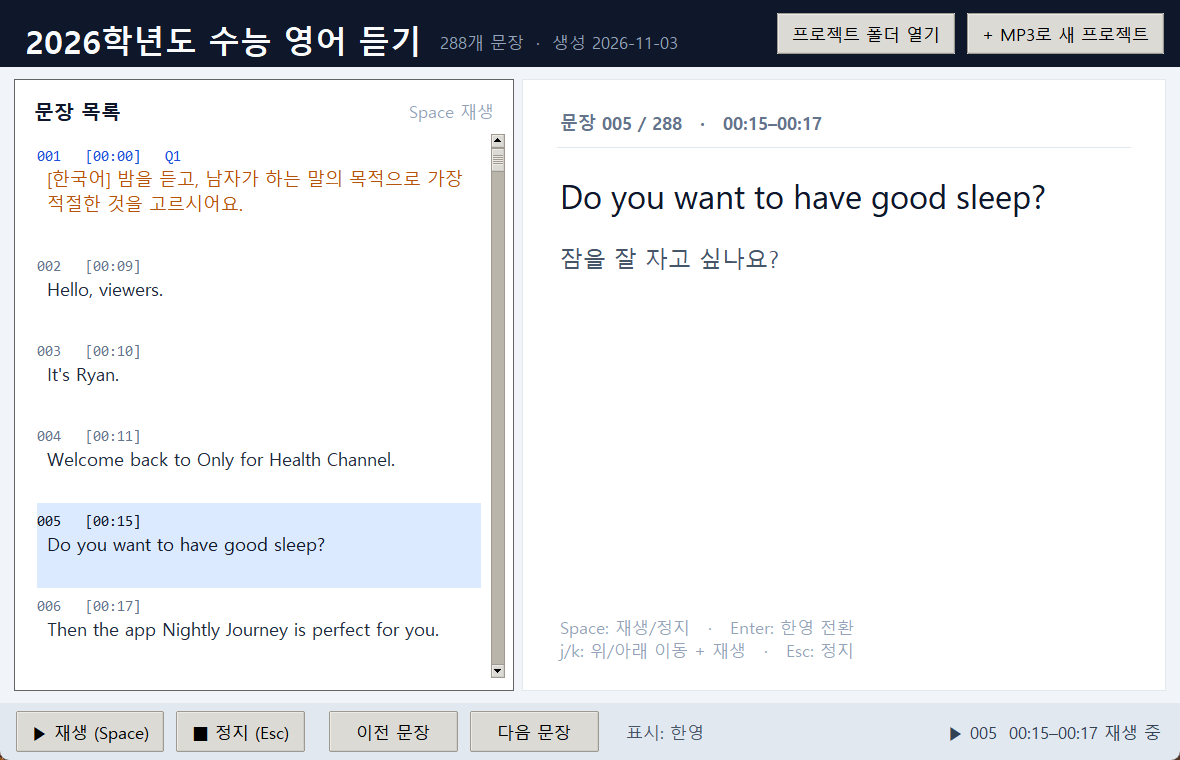
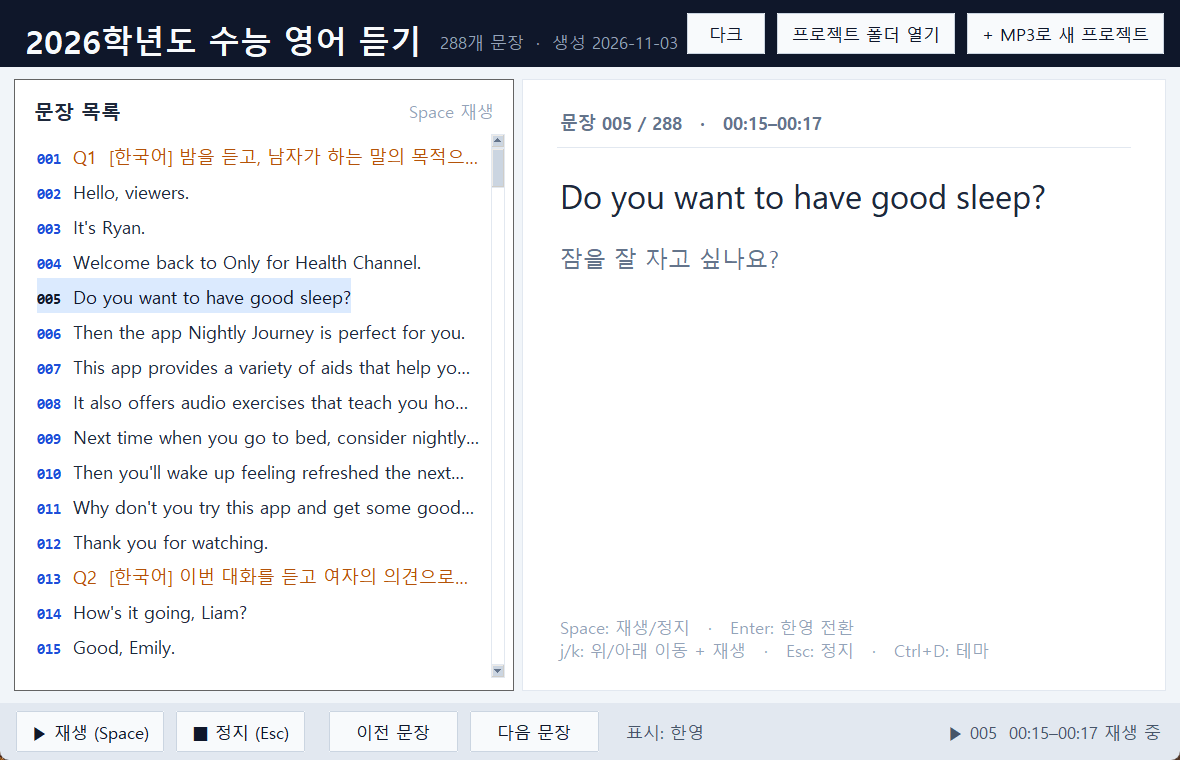
docs: refresh GUI screenshots and demo for compact list and dark theme
- screenshot now shows the one-line sentence list

- add a dark-theme preview and document the toggle/CLI option

- re-record the 20s demo with the light-to-dark switch

diff --git a/README.md b/README.md
@@ -66,11 +66,12 @@ Linux에서 CUDA 없는 CPU만 쓴다면 위 `torch` 설치 명령을 그대로 
 python gui.py
 ```
 
-- 왼쪽: 문장 카드 목록 (긴 문장도 줄바꿈되어 잘리지 않습니다)
-- 오른쪽: 선택한 문장의 영어/한국어 본문
+- 왼쪽: **문장 번호 + 본문 한 줄** 목록 (긴 문장은 폭에 맞춰 `…`로 줄임)
+- 오른쪽: 선택한 문장의 영어/한국어 본문과 전체 문장
 - 상단 **`+ MP3로 새 프로젝트`**: MP3를 고르고 이름/Whisper 모델을 정하면
   `data/project/<파일명>/`에 프로젝트를 만들고, 진행률 창에 단계/퍼센트를
   표시합니다. NLLB 번역은 고정이며 Google 번역은 사용하지 않습니다.
+- **라이트/다크 테마**: 상단 `다크`/`라이트` 버튼 또는 `Ctrl+D`로 즉시 전환
 
 | 키 | 동작 |
 |---|---|
@@ -79,10 +80,24 @@ python gui.py
 | `Enter` | 오른쪽 본문의 한/영 표시 전환 |
 | `j` | 아래로 이동하며 바로 재생 |
 | `k` | 위로 이동하며 바로 재생 |
+| `Ctrl+D` | 라이트/다크 테마 전환 |
 | `Esc` | 재생 정지 |
 
 > `j`는 아래, `k`는 위입니다(Vim과 동일). 목록 이동과 동시에 해당 문장이
 > 재생됩니다. 문장 끝이 잘리지 않도록 앞뒤로 약간의 여유를 두고 재생합니다.
+
+다크 테마로 바로 시작하려면:
+
+```powershell
+python gui.py --theme dark
+```
+
+<details>
+<summary>다크 테마 미리보기</summary>
+
+![다크 테마](docs/screenshot-dark.png)
+
+</details>
 
 `+ MP3로 새 프로젝트`는 오디오를 프로젝트 폴더로 복사한 뒤 Whisper 모델을
 내려받아 인식합니다. CPU에서 22분 음원 기준 `small`은 대략 15~20분,
@@ -382,6 +397,6 @@ data/project/<이름>/        # 음원 + 자막 + 캐시 + project.json
 ## 데모
 
 20초짜리 실제 사용 흐름입니다. 문장 이동(`j`/`k`), 재생(`Space`),
-한/영 전환(`Enter`)을 순서대로 보여 줍니다.
+한/영 전환(`Enter`), 라이트/다크 전환(`Ctrl+D`)을 순서대로 보여 줍니다.
 
 ![GUI 사용 데모](docs/demo.gif)
